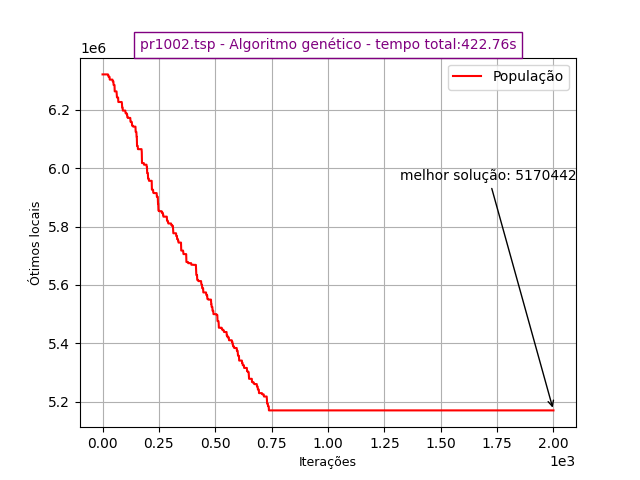
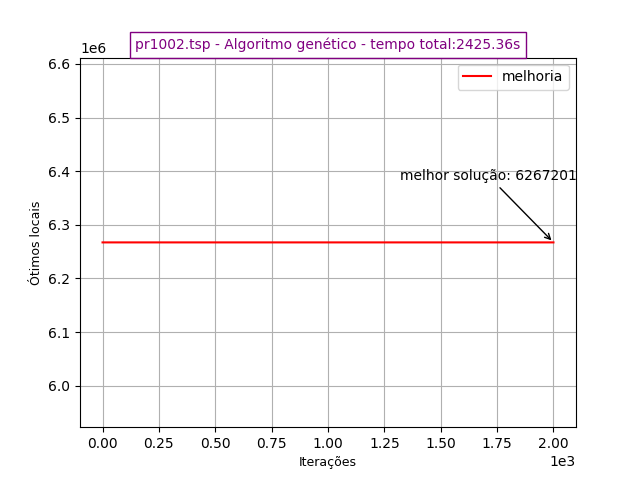
operador de cruzamento pos implementado

diff --git a/PCV/genetico/genetic.py b/PCV/genetico/genetic.py
@@ -157,7 +157,7 @@ def two_opt(graph, route, x):
                     best_distance = new_distance
                     counter += 1
 
-                if x == 1 and counter >= 5:  # critério de parada, first improvement
+                if x == 1 and counter >= 6:
                     should_break = True
                     improved = False
                     break
@@ -174,22 +174,23 @@ def two_opt(graph, route, x):
 ###########################################################################################
 
 
-def pmx(f1, f2):
-    s1 = []  # filho 1
-    s2 = []  # filho 2
-    lista = []
-    i = randint(1, localLen(f1) - 1)
-    j = randint(i + 1, localLen(f2) - 1)
+def pos(pais):
+    positions = []
+    filhos = [[0], [], []]
+    li = range(1, localLen(pais[1]))
+    positions.append(random.sample(li, 3))
 
-    s1[i:j] = f2[i:j]
-    s2[i:j] = f1[i:j]
+    filhos[1] = localDeepcopy(pais[1])
+    filhos[2] = localDeepcopy(pais[2])
 
-    for i in range(1, 3):
-        lista.append(1)
+    for i in positions[0]:
+        i = int(i)
+        filhos[1][i] = pais[2][i]
+        filhos[1][pais[1].index(filhos[1][i])] = pais[1][i]
+        filhos[2][i] = pais[1][i]
+        filhos[2][pais[2].index(filhos[2][i])] = pais[2][i]
 
-    print(f'i:{i} j:{j}\n')
-    print(f'Filho 1: {s1} - tamanho:{localLen(s1)}\n')
-    print(f'Filho 2: {s2} - tamanho:{localLen(s2)}\n')
+    return filhos
 
 
 ###########################################################################################
@@ -212,7 +213,7 @@ def cx(pais):
             # print(f'\nfilhos[{i}][{index}] = {filhos[i][index]}')
             # print(f'\npai[{(i % 2) + 1}] = {pais[(i % 2) + 1]}')
 
-            index = pais[(i % 2) + 1].index(filhos[i][index], 0)
+            index = pais[(i % 2) + 1].index(filhos[i][index])
 
             # print(f'repetidos:{list(duplicates(pais[(i % 2) + 1]))}')
 
@@ -282,8 +283,8 @@ def mutation(mut, population):
     i = (randint(1, localLen(population[1])))
     j = (randint(i, localLen(population[1])))
 
-    if localLen(population) < mut_tax:
-        mut_tax = localLen(population)
+    # if localLen(population) < mut_tax:
+    #     mut_tax = localLen(population)
 
     for i in range(mut_tax):
         index = (randint(1, localLen(population) - 1))
@@ -329,9 +330,10 @@ def genetic(graph, pop, mut, max_i, max_t, s):
     # gerar população inicial
     print(f'Gerando população inicial...\n')
     for i in range(1, pop):
-        population.append(nearestneighbour(deepcopy(graph), i))
-        # li = range(1, localLen(graph))
-        # population.append(random.sample(li, localLen(li)))
+        # population.append(nearestneighbour(deepcopy(graph), i)) # traz soluções boas mas sem variabilidade
+        # população gerada de forma aletória:
+        li = range(1, localLen(graph))
+        population.append(random.sample(li, localLen(li)))
 
     for elemento in population:
         print(f'elemento:{elemento} - tamanho:{localLen(elemento)}')
@@ -358,7 +360,8 @@ def genetic(graph, pop, mut, max_i, max_t, s):
 
         ### Cruzamento ###
         print(f'\nCruzamento:[{it}]')
-        filhos = cx(pais)
+        # filhos = cx(pais)
+        filhos = pos(pais)
         # for i in range(1,localLen(filhos)):
         #     print(f'filhos[{i}]:{filhos[i]} - custo(filhos[{i}]):{fitness(graph, filhos[i])}\n')
 
@@ -388,5 +391,4 @@ def genetic(graph, pop, mut, max_i, max_t, s):
 
     print(f'\nMelhor solução:{best_solution}\n')
     file_name = sys.argv[len(sys.argv) - 1]
-    plt_counters = range(it)
     plot_graf(plt_opts, plt_counters, file_name, round(exe_time, 2), best_solution)
